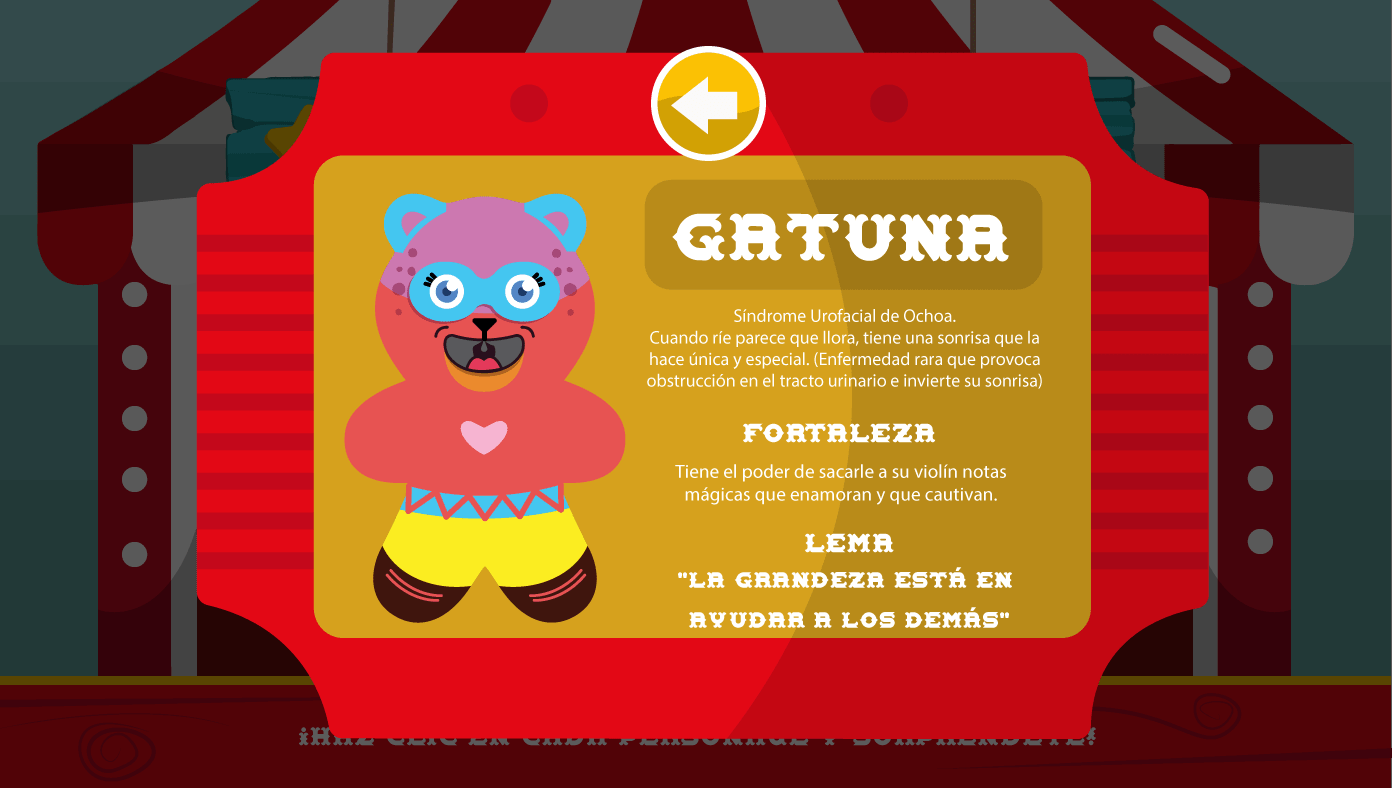
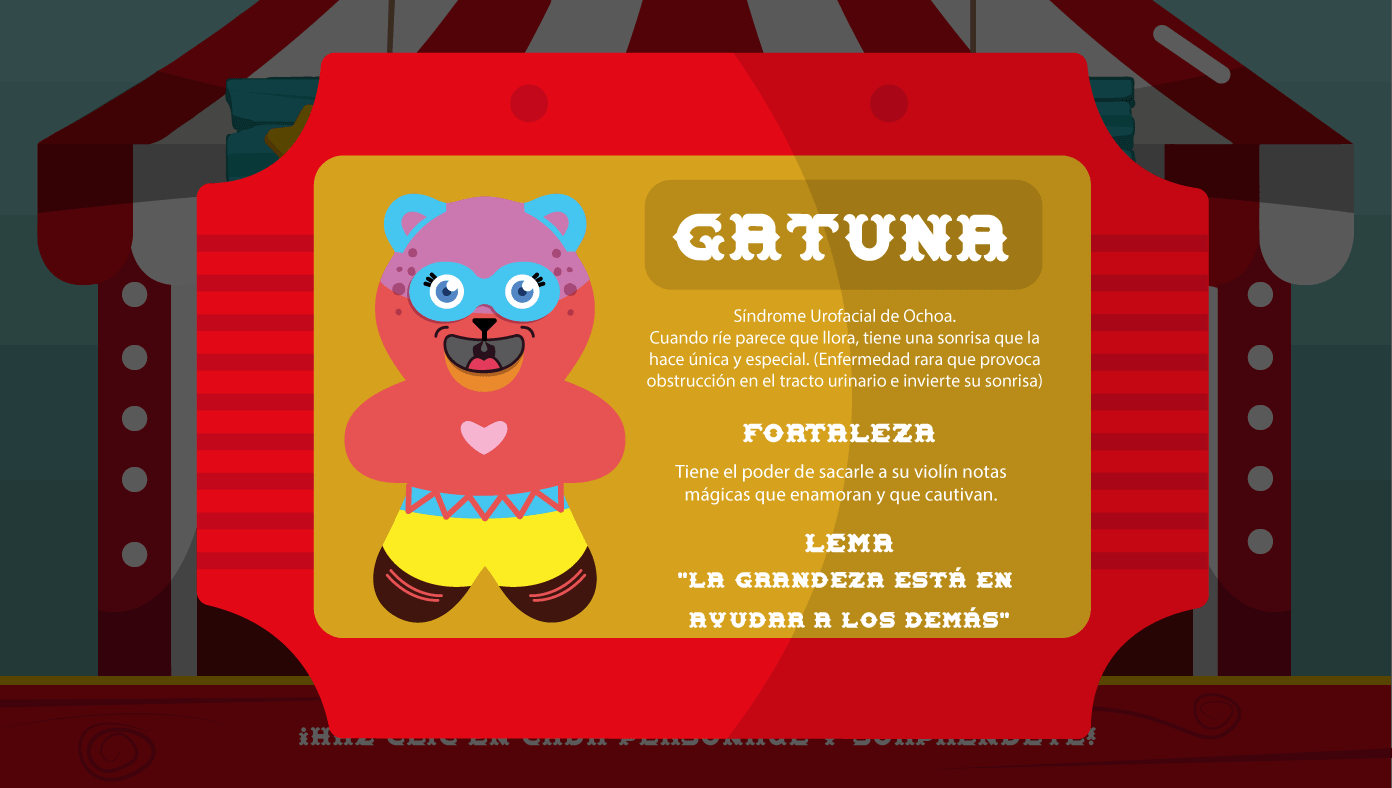
Gallery Update

Changed region(s): [[0.4634, 0.0609, 0.556, 0.2132]]

diff --git a/www/css/main.css b/www/css/main.css
@@ -184,8 +184,8 @@
 
 .btnBackGaleria {
     position: absolute;
-    top: 3%;
-    left: 47%;
+    top: 5%;
+    left: 47.5%;
     width: 9%;
 }
 
